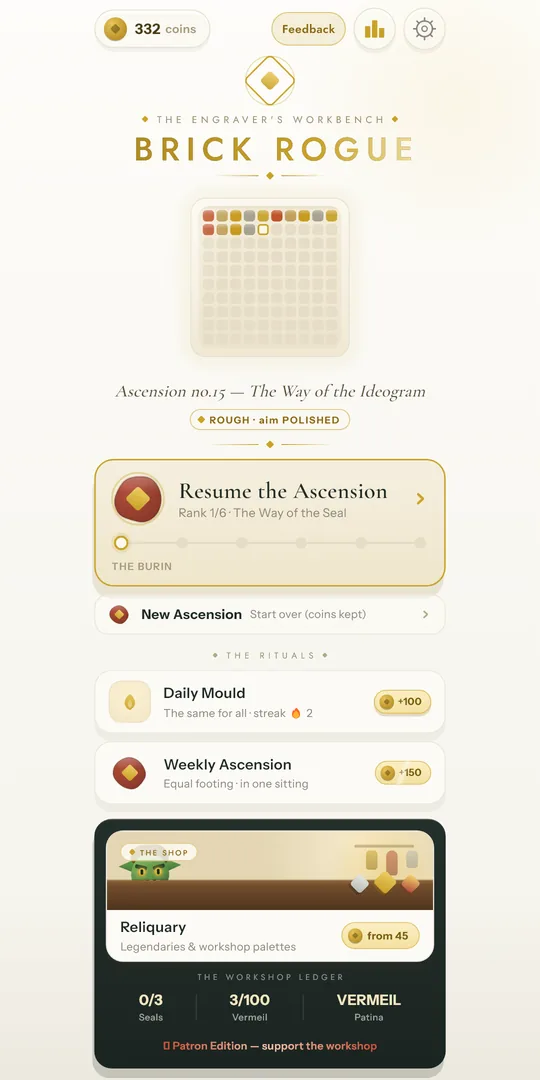
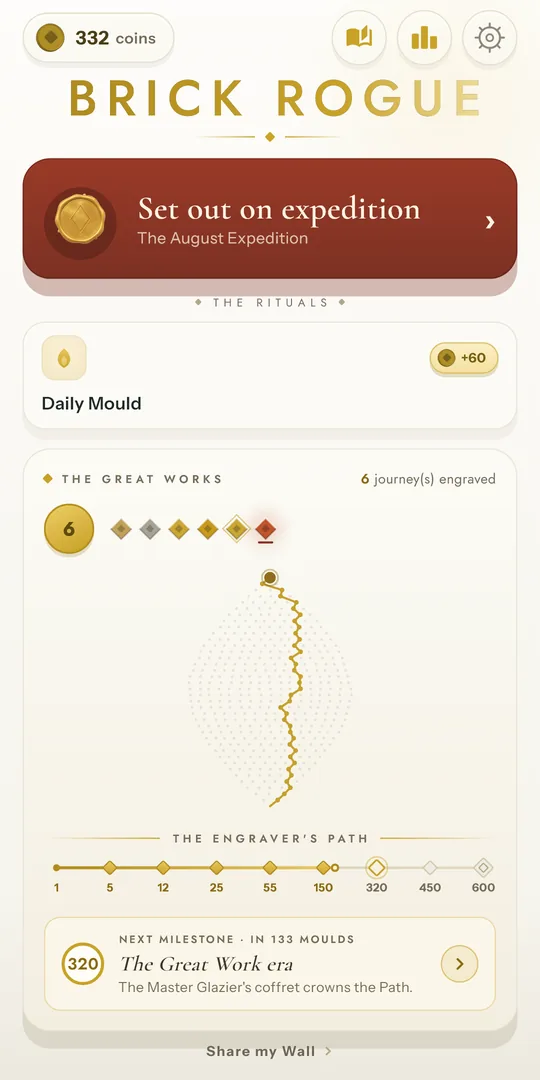
Brick Rogue : captures a jour du jeu actuel, legendes alignees
Les 8 webp regeneres depuis le jeu en v1.0.119 (gen_shots + site_shots) :
la carte de la Grande Ascension remplace l'ancienne Planche, l'Etabli
montre les poincons du Maitre et le fil d'or du dernier voyage, le
Reliquaire ses legendaires. Legendes et alt mis au vocabulaire du jeu
(Grande Ascension, Sceau Final, poincons) ; la puce « seuls achats
cosmetiques » devient le serment du Reliquaire — « l'argent reel reste
un confort, jamais une obligation » (les bourses d'ecus existent).

diff --git a/script.js b/script.js
@@ -68,20 +68,20 @@
       "brick.cta.note": "Sur Android&nbsp;: test fermé Google&nbsp;Play — l'accès est ouvert à tous.",
       "brick.shots": "En images",
       "brick.shot1": "Le Moule du jour — le même pour tout le monde.",
-      "brick.shot2": "L'Ascension — choisissez votre chemin.",
-      "brick.shot3": "L'Établi — votre Grand Sceau se grave.",
-      "brick.shot4": "Le Reliquaire — en écus gagnés, jamais en argent réel.",
+      "brick.shot2": "La Grande Ascension — choisissez votre chemin.",
+      "brick.shot3": "L'Établi — vos voyages se gravent.",
+      "brick.shot4": "Le Reliquaire — tout se gagne en jouant.",
       "brick.shot1.alt": "Le Moule du jour : des pièces colorées à glisser dans un moule vide.",
-      "brick.shot2.alt": "La Planche : un arbre de nœuds reliés menant au Sceau majeur.",
-      "brick.shot3.alt": "L'Établi du graveur : le Grand Sceau, les rituels du jour et de la semaine.",
-      "brick.shot4.alt": "Le Reliquaire : des coffrets de reliques achetables en écus gagnés en jouant.",
+      "brick.shot2.alt": "La Grande Ascension : une carte de nœuds reliés menant au Sceau Final.",
+      "brick.shot3.alt": "L'Établi du graveur : les poinçons des voyages achevés, le fil d'or du dernier Grand Œuvre.",
+      "brick.shot4.alt": "Le Reliquaire : les reliques légendaires, payées en écus gagnés en jouant.",
       "brick.why": "Ce qui le distingue",
       "brick.p1.t": "Skill pur",
       "brick.p1.d": "Pas de vies, pas de minuteur, aucun achat d'avantage.",
       "brick.p2.t": "Hors ligne",
       "brick.p2.d": "Jouable partout, aucune donnée collectée par le studio.",
       "brick.p3.t": "Respectueux",
-      "brick.p3.d": "Aucune publicité ; les seuls achats sont cosmétiques.",
+      "brick.p3.d": "Aucune publicité ; l'argent réel reste un confort, jamais une obligation.",
       "brick.p4.t": "Pensé pour tous",
       "brick.p4.d": "Palette daltonienne, lecteur d'écran, texte ×2, jouable au pouce.",
       "brick.note": "Développé à Paris par nodusing.",
@@ -143,20 +143,20 @@
       "brick.cta.note": "On Android: closed testing on Google&nbsp;Play — open to everyone.",
       "brick.shots": "In pictures",
       "brick.shot1": "The Daily Mould — the same for everyone.",
-      "brick.shot2": "The Ascension — pick your path.",
-      "brick.shot3": "The Workbench — your Great Seal takes shape.",
-      "brick.shot4": "The Reliquary — earned coins only, never real money.",
+      "brick.shot2": "The Great Ascension — pick your path.",
+      "brick.shot3": "The Workbench — your journeys are engraved.",
+      "brick.shot4": "The Reliquary — everything is earned by playing.",
       "brick.shot1.alt": "The Daily Mould: colourful pieces waiting to be slid into an empty mould.",
-      "brick.shot2.alt": "The Board: a tree of linked nodes leading to the Major Seal.",
-      "brick.shot3.alt": "The engraver's Workbench: the Great Seal, the daily and weekly rituals.",
-      "brick.shot4.alt": "The Reliquary: relic boxes bought with coins earned by playing.",
+      "brick.shot2.alt": "The Great Ascension: a map of linked nodes leading to the Final Seal.",
+      "brick.shot3.alt": "The engraver's Workbench: hallmarks of finished journeys, the golden thread of the last Great Work.",
+      "brick.shot4.alt": "The Reliquary: legendary relics, paid with coins earned by playing.",
       "brick.why": "What sets it apart",
       "brick.p1.t": "Pure skill",
       "brick.p1.d": "No lives, no timer, no paid advantages, ever.",
       "brick.p2.t": "Offline",
       "brick.p2.d": "Playable anywhere; the studio collects no data.",
       "brick.p3.t": "Respectful",
-      "brick.p3.d": "No ads; the only purchases are cosmetic.",
+      "brick.p3.d": "No ads; real money stays a comfort, never a requirement.",
       "brick.p4.t": "For everyone",
       "brick.p4.d": "Colour-blind palette, screen-reader support, 2× text, one-thumb play.",
       "brick.note": "Built in Paris by nodusing.",

diff --git a/brickrogue.html b/brickrogue.html
@@ -107,21 +107,21 @@
         </li>
         <li class="shot">
           <img src="assets/brickrogue/planche-fr.webp" width="540" height="1080"
-               alt="La Planche : un arbre de nœuds reliés menant au Sceau majeur."
+               alt="La Grande Ascension : une carte de nœuds reliés menant au Sceau Final."
                data-shot="planche" data-i18n-alt="brick.shot2.alt" loading="lazy" decoding="async">
-          <p class="shot-cap" data-i18n="brick.shot2">L'Ascension — choisissez votre chemin.</p>
+          <p class="shot-cap" data-i18n="brick.shot2">La Grande Ascension — choisissez votre chemin.</p>
         </li>
         <li class="shot">
           <img src="assets/brickrogue/etabli-fr.webp" width="540" height="1080"
-               alt="L'Établi du graveur : le Grand Sceau, les rituels du jour et de la semaine."
+               alt="L'Établi du graveur : les poinçons des voyages achevés, le fil d'or du dernier Grand Œuvre."
                data-shot="etabli" data-i18n-alt="brick.shot3.alt" loading="lazy" decoding="async">
-          <p class="shot-cap" data-i18n="brick.shot3">L'Établi — votre Grand Sceau se grave.</p>
+          <p class="shot-cap" data-i18n="brick.shot3">L'Établi — vos voyages se gravent.</p>
         </li>
         <li class="shot">
           <img src="assets/brickrogue/reliquaire-fr.webp" width="540" height="1080"
-               alt="Le Reliquaire : des coffrets de reliques achetables en écus gagnés en jouant."
+               alt="Le Reliquaire : les reliques légendaires, payées en écus gagnés en jouant."
                data-shot="reliquaire" data-i18n-alt="brick.shot4.alt" loading="lazy" decoding="async">
-          <p class="shot-cap" data-i18n="brick.shot4">Le Reliquaire — en écus gagnés, jamais en argent réel.</p>
+          <p class="shot-cap" data-i18n="brick.shot4">Le Reliquaire — tout se gagne en jouant.</p>
         </li>
       </ul>
 
@@ -130,7 +130,7 @@
       <ul class="brick-points" role="list">
         <li><strong data-i18n="brick.p1.t">Skill pur</strong><span data-i18n="brick.p1.d">Pas de vies, pas de minuteur, aucun achat d'avantage.</span></li>
         <li><strong data-i18n="brick.p2.t">Hors ligne</strong><span data-i18n="brick.p2.d">Jouable partout, aucune donnée collectée par le studio.</span></li>
-        <li><strong data-i18n="brick.p3.t">Respectueux</strong><span data-i18n="brick.p3.d">Aucune publicité ; les seuls achats sont cosmétiques.</span></li>
+        <li><strong data-i18n="brick.p3.t">Respectueux</strong><span data-i18n="brick.p3.d">Aucune publicité ; l'argent réel reste un confort, jamais une obligation.</span></li>
         <li><strong data-i18n="brick.p4.t">Pensé pour tous</strong><span data-i18n="brick.p4.d">Palette daltonienne, lecteur d'écran, texte ×2, jouable au pouce.</span></li>
       </ul>
 
